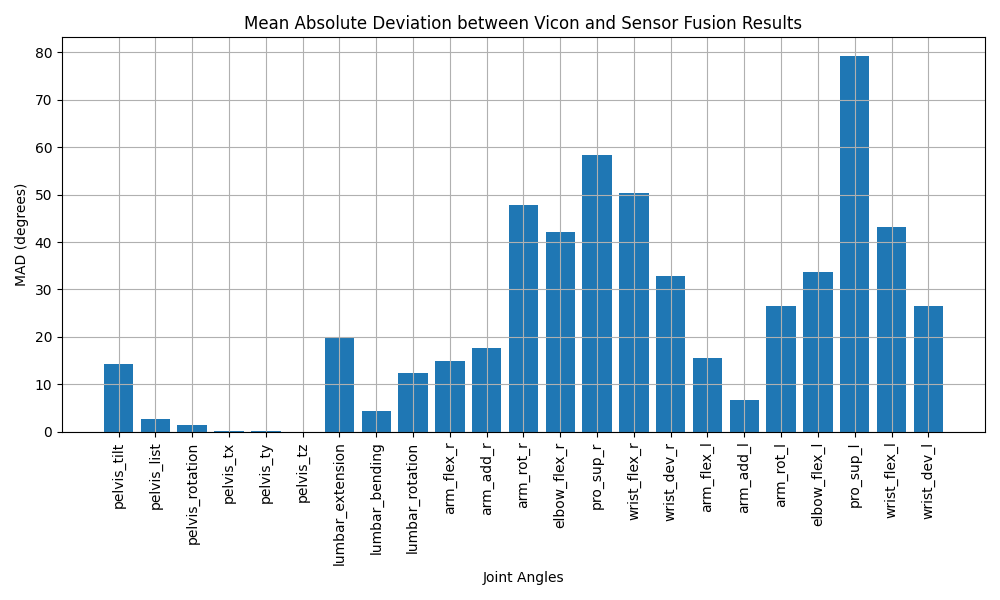
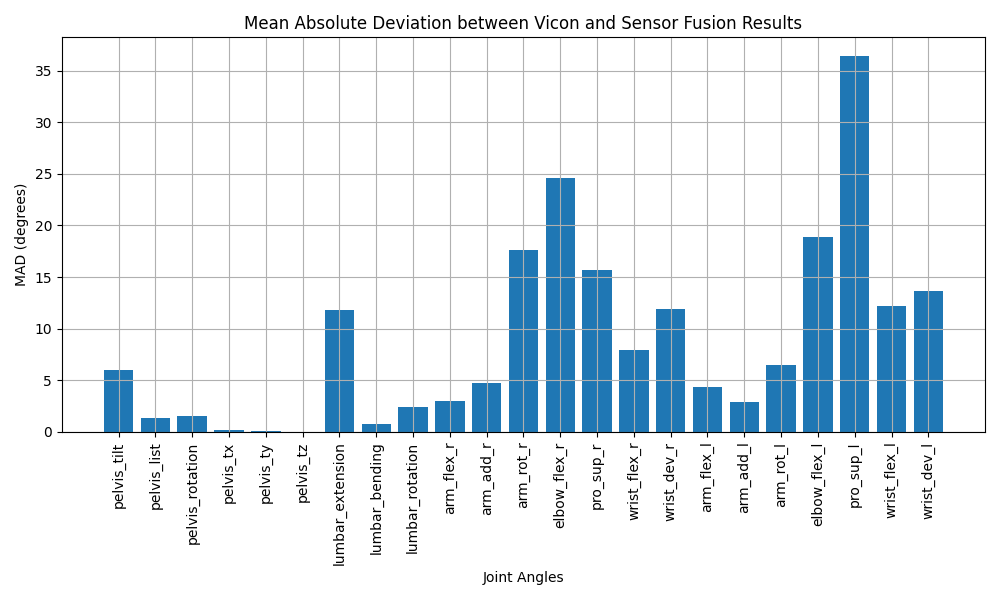
fixed time synchronization trc file write

diff --git a/OpenSim/WeightsTuningModule.py b/OpenSim/WeightsTuningModule.py
@@ -402,12 +402,29 @@ def apply_lag_correction(vicon_df, best_lag, imu_df, subject_ID, trial_ID, heade
         # Finally, save the corrected vicon file
         # write to a new trc file with the same header
         corrected_vicon_trc_path = f'recordings/subject{subject_ID}/vicon_{trial_ID}.trc'
+        # change header_vicon value: line 3, position 7
+        tokens = header_vicon[2].rstrip().split('\t')
+        tokens[6] = '1'  # OrigDataStartFrame
+        header_vicon[2] = '\t'.join(tokens) + '\n'
         with open(corrected_vicon_trc_path, 'w') as f:
             for line in header_vicon:
                 f.write(line)
-            # write data
-            for index, row in vicon_df.iterrows():
-                f.write('\t'.join([f'{val:.6f}' for val in row.values]) + '\n')
+            # write data: simple, set Frame# to 1..N and format numeric values to 6 decimals
+            for seq, (_, row) in enumerate(vicon_df.iterrows(), start=1):
+                vals = list(row.values)
+                # replace the first column (Frame#) with sequential integer
+                vals[0] = seq
+                out_cells = []
+                for idx, v in enumerate(vals):
+                    try:
+                        if idx == 0:
+                            # Frame# should be an integer without decimals
+                            out_cells.append(str(int(v)))
+                        else:
+                            out_cells.append(f"{float(v):.6f}")
+                    except Exception:
+                        out_cells.append(str(v))
+                f.write('\t'.join(out_cells) + '\n')
     else:
         # Undo previous lag correction
         vicon_df['Time'] = vicon_df['Time'] - time_shift
@@ -593,20 +610,6 @@ def main():
     orientation_weights = [1.0] * 8
     stereocamera_weights = [1.0] * 15
 
-    # results from first optuna optimization (only error minizimation and 100 trials) - finger_nose trial
-    #webcam_weights = [5, 9, 6, 2, 9, 7, 5, 5, 1, 4, 4, 8]
-    #orientation_weights = [2, 3, 7, 5, 8, 0, 2, 9]
-    #stereocamera_weights = [7, 5, 0, 6, 1, 8, 7, 3, 3, 9, 0, 1, 0, 6, 7]
-    # results from first optuna optimization (only error minizimation and 100 trials) - shoulder_abd_add
-    #webcam_weights = [0, 5, 0, 0, 2, 4, 10, 5, 8, 5, 6, 5]
-    #orientation_weights = [9, 4, 9, 3, 4, 6, 1, 2]
-    #stereocamera_weights = [4, 7, 1, 2, 0, 6, 5, 5, 6, 10, 3, 10, 0, 0, 6]
-
-    #results on finger_nose after 1000 trials 
-    #webcam_weights = [6, 7, 10, 0, 0, 7, 4, 0, 9, 6, 7, 0]
-    #orientation_weights = [8, 10, 9, 2, 8, 0, 1, 4]
-    #stereocamera_weights = [2, 5, 5, 10, 0, 1, 7, 1, 1, 3, 9, 10, 3, 8, 3]
-
     output = sensor_fusion(webcam_weights, orientation_weights, stereocamera_weights, constraint_var, subject_ID, trial_ID, subject_mass, subject_height, subject_age, subject_sex)
     # Read the output
     latest_ik_results_header, latest_ik_results_columns, latest_ik_results_df = read_mot_file(output)
@@ -626,6 +629,8 @@ def main():
         best_lag = 215
     elif trial_ID == 'wrist_flex_ext':
         best_lag = 290
+    elif trial_ID == "static":
+        best_lag = -120
     else: 
         best_lag = find_lag(vicon_ik_norm, imu_df)
     apply_lag_correction(vicon_df, best_lag, imu_df, subject_ID, trial_ID, header_vicon, columns_vicon)
@@ -708,6 +713,7 @@ def main():
     plt.title('Range of Motion Error between Vicon and Sensor Fusion Results')
     plt.xticks(rotation=90)
     plt.tight_layout()
+    plt.grid()
     plt.savefig(results_folder + '/rom_error_default_weights.png')
 
     # RMSE (Root Mean Square Error) for each joint angle
@@ -719,6 +725,7 @@ def main():
     plt.title('Root Mean Square Error between Vicon and Sensor Fusion Results')
     plt.xticks(rotation=90)
     plt.tight_layout()
+    plt.grid()
     plt.savefig(results_folder + '/rmse_default_weights.png')
 
     # MAD (Mean Absolute Deviation) for each joint angle
@@ -730,13 +737,14 @@ def main():
     plt.title('Mean Absolute Deviation between Vicon and Sensor Fusion Results')
     plt.xticks(rotation=90)
     plt.tight_layout()
+    plt.grid()
     plt.savefig(results_folder + '/mad_default_weights.png')
 
     # Optimization setup
     study_name = "weights_tuning_study_" + subject_ID + "_" + trial_ID
     study = optuna.create_study(direction='minimize',storage="sqlite:///db.sqlite3", study_name=study_name, load_if_exists=True)
     # By default, Optuna uses Tree-structured Parzen Estimator algorithm implemented in TPESampler
-    study.optimize(lambda trial: objective(trial, ground_truth_df, constraint_var, subject_ID, trial_ID, subject_mass, subject_height, subject_age, subject_sex), n_trials=10000)
+    study.optimize(lambda trial: objective(trial, ground_truth_df, constraint_var, subject_ID, trial_ID, subject_mass, subject_height, subject_age, subject_sex), n_trials=3000)
 
     # Save best trial data in a file 
     file_name = "optuna_results_subject_" + subject_ID + "_trial_" + trial_ID + ".txt"
@@ -755,10 +763,21 @@ def main():
     orientation_weights = [best_params[f'orientation_weight_{i}'] for i in range(8)]
     stereocamera_weights = [best_params[f'stereocamera_weight_{i}'] for i in range(15)]
 
+
     output = sensor_fusion(webcam_weights, orientation_weights, stereocamera_weights, constraint_var, subject_ID, trial_ID, subject_mass, subject_height, subject_age, subject_sex)
     # Read the output
-    output_df = pd.DataFrame(output)
+    output_header, output_columns, output_df = read_mot_file(output)
     output_df.to_csv(results_folder + '/sensor_fusion_best_params_output.csv', index=False)
+    # Copy output to results folder
+    try:
+        shutil.copy(output, results_folder + '/sensor_fusion_best_params_output.mot')
+    except Exception as e:
+        print(f"Error copying sensor fusion output: {e}")
+    # Copy ground truth ik file to results folder
+    try:
+        shutil.copy(ground_truth_ik_file, results_folder + '/ground_truth_ik_output.mot')
+    except Exception as e:
+        print(f"Error copying ground truth IK file: {e}")
 
     # Compare with ground truth
     error_df = compare_joint_angles(output_df, ground_truth_df)
@@ -778,6 +797,7 @@ def main():
     plt.title('Range of Motion Error between Vicon and Sensor Fusion Results')
     plt.xticks(rotation=90)
     plt.tight_layout()
+    plt.grid()
     plt.savefig(results_folder + '/rom_error_best_weights.png')
 
     # RMSE (Root Mean Square Error) for each joint angle
@@ -789,6 +809,7 @@ def main():
     plt.title('Root Mean Square Error between Vicon and Sensor Fusion Results')
     plt.xticks(rotation=90)
     plt.tight_layout()
+    plt.grid()
     plt.savefig(results_folder + '/rmse_best_weights.png')
 
     # MAD (Mean Absolute Deviation) for each joint angle
@@ -800,6 +821,7 @@ def main():
     plt.title('Mean Absolute Deviation between Vicon and Sensor Fusion Results')
     plt.xticks(rotation=90)
     plt.tight_layout()
+    plt.grid()
     plt.savefig(results_folder + '/mad_best_weights.png')
 
 
